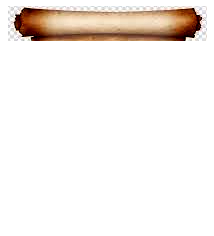
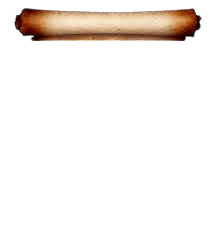
pergamino

Changed region(s): [[0.028, 0.0297, 0.9813, 0.178]]

diff --git a/main.html b/main.html
@@ -167,7 +167,10 @@
 
         .faq-pregunta,
         .faq-respuesta-contenido {
-            background-image: url('https://github.com/Tritton080/FROSCH-WUNDER/blob/main/img/fondo.jpg?raw=true');
+            background-image: url('https://github.com/Tritton080/FROSCH-WUNDER/blob/main/img/Fondo_Oscuro.png?raw=true');
+            background-size:100% 100%;
+            background-position: center;
+            background-repeat: no-repeat;
             color: #3e2723;
             display: flex;
             align-items: center;
